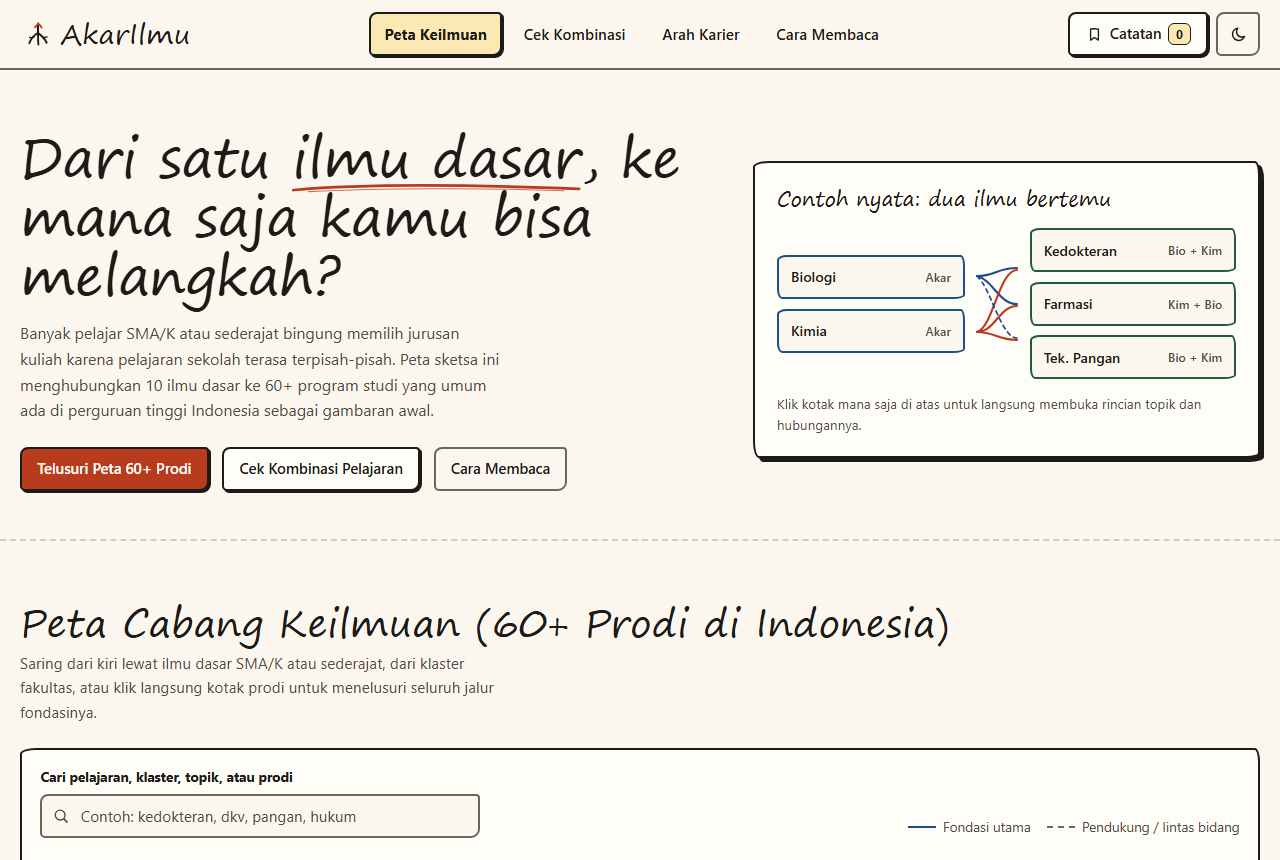
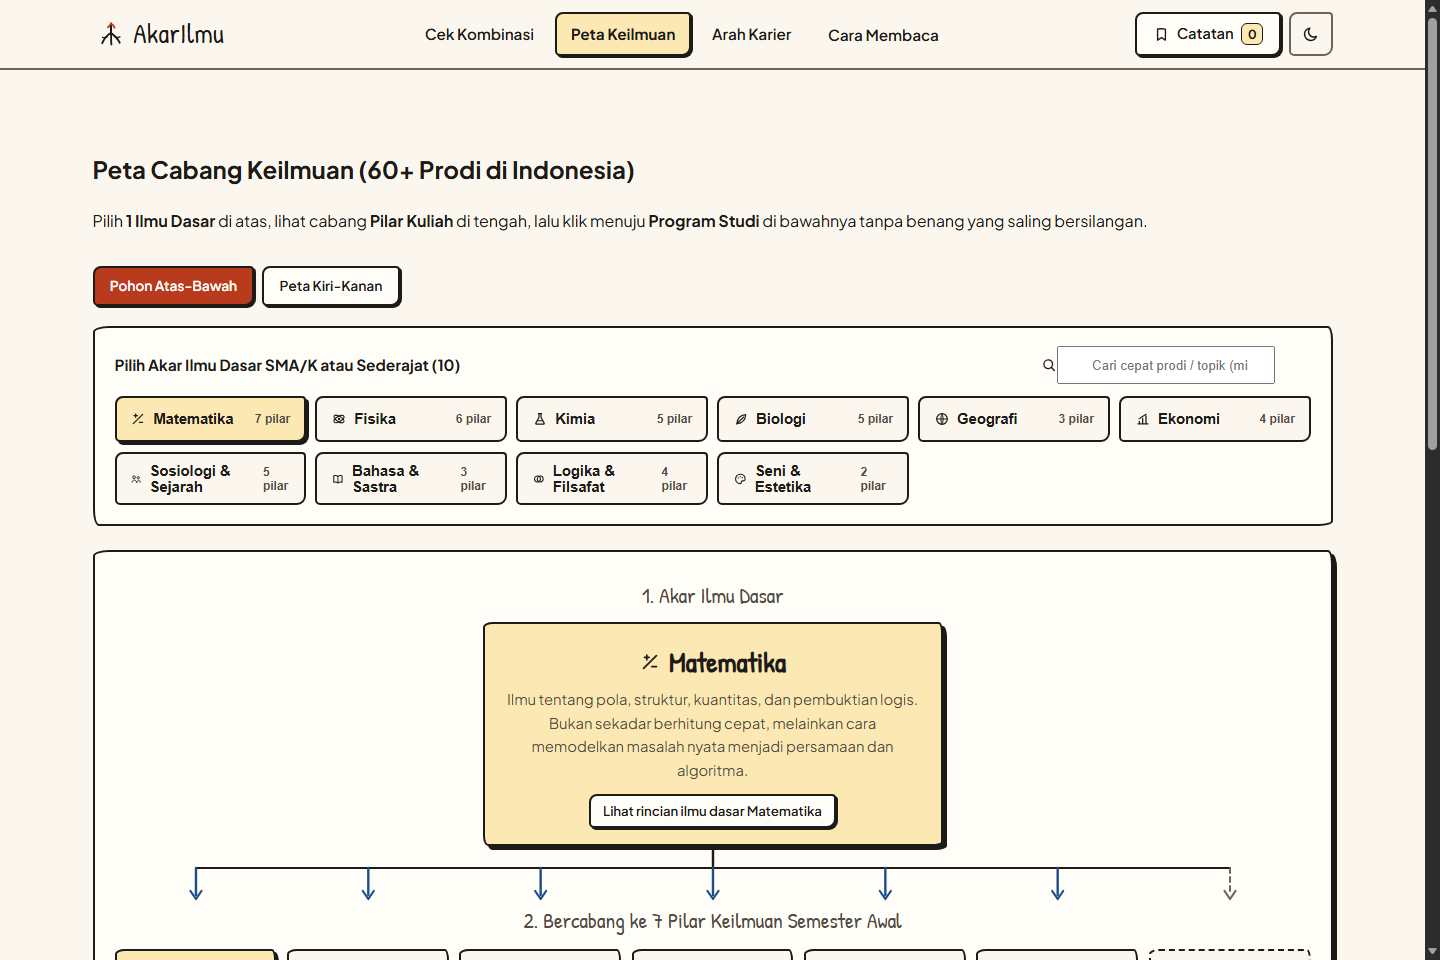
docs(readme): update README and screenshot for Cek Kombinasi landing, vertical tree map, and landscape popup

diff --git a/README.md b/README.md
@@ -10,15 +10,15 @@ Peta referensi keilmuan interaktif bergaya buku sketsa untuk pelajar SMA/K atau 
 
 ## Pratinjau Tampilan
 
-### 1. Peta Keilmuan (10 Ilmu Dasar -> 16 Pilar -> 60+ Prodi di Indonesia)
-
-![Halaman Peta Keilmuan AkarIlmu](docs/screenshots/peta-keilmuan.png)
-
-### 2. Cek Kombinasi Pelajaran (Persimpangan 1 sampai 3 Ilmu Dasar)
+### 1. Cek Kombinasi Pelajaran (Halaman Utama: Persimpangan 1 sampai 3 Ilmu Dasar)
 
 ![Halaman Cek Kombinasi AkarIlmu](docs/screenshots/cek-kombinasi.png)
 
-### 3. Arah Karier & Profesi Kerja (Telusur Balik dari Profesi ke Prodi)
+### 2. Peta Keilmuan (Mode Pohon Atas-Bawah & Peta Kiri-Kanan: 10 Ilmu Dasar -> 16 Pilar -> 60+ Prodi)
+
+![Halaman Peta Keilmuan AkarIlmu](docs/screenshots/peta-keilmuan.png)
+
+### 3. Arah Karier & Profesi Kerja (Telusur Balik dari 24 Jalur Profesi ke Prodi)
 
 ![Halaman Arah Karier AkarIlmu](docs/screenshots/arah-karier.png)
 
@@ -26,12 +26,14 @@ Peta referensi keilmuan interaktif bergaya buku sketsa untuk pelajar SMA/K atau 
 
 ## Fitur Utama
 
-- **Peta Cabang Keilmuan (`#peta`)**: Menelusuri hubungan 10 ilmu dasar (Matematika, Fisika, Kimia, Biologi, Geografi, Ekonomi, Sosiologi & Sejarah, Bahasa & Sastra, Logika & Filsafat, Seni & Estetika) ke 16 pilar kuliah dan 69 program studi lintas 9 klaster fakultas di Indonesia.
-- **Cek Persimpangan Ilmu (`#kombinasi`)**: Memilih 1 sampai 3 pelajaran favorit sekaligus untuk melihat jurusan apa saja yang mempertemukannya (misalnya Biologi + Kimia, Fisika + Matematika, atau Bahasa + Matematika).
-- **Arah Karier (`#karier`)**: Memetakan 24 jalur karier lintas 8 sektor kerja beserta aktivitas harian, prodi jalur utama maupun lintas prodi, ilmu dasar yang perlu disiapkan, dan catatan realitas lapangan (seperti syarat pendidikan profesi atau portofolio).
-- **Rincian Prodi, Rujukan PTN/PTS & Kalkulator Keketatan**: Setiap program studi dilengkapi topik inti, contoh PTN dan PTS rujukan di Indonesia, tautan ke portal resmi `snpmb.id`, serta kalkulator rasio keketatan (Daya Tampung dibanding Jumlah Peminat).
-- **Catatan Belajar Lokal**: Menandai status bidang (`Tertarik`, `Sedang dipelajari`, `Sudah paham dasar`) yang tersimpan langsung di `localStorage` tanpa perlu akun.
-- **Mode Terang & Gelap + Responsif Ponsel**: Tema kertas sketsa krem dan mode gelap *Midnight Sketchbook*, dilengkapi tab 3 lapis, filter lipat, dan bilah navigasi bawah khusus layar smartphone.
+- **Cek Persimpangan Ilmu (`#kombinasi` · Halaman Utama)**: Pengunjung dapat langsung memilih 1 sampai 3 pelajaran favorit SMA/K atau sederajat untuk melihat program studi apa saja yang mempertemukannya (misalnya `Biologi + Kimia`, `Fisika + Matematika`, `Matematika + Ekonomi`, atau `Bahasa + Matematika`) lengkap dengan alasan keilmuannya.
+- **Peta Cabang Keilmuan 2 Mode (`#peta`)**:
+  - **Mode `Pohon Atas-Bawah`**: Menelusuri 1 akar ilmu dasar di atas, bercabang turun ke deretan pilar kuliah semester awal di tengah, lalu turun ke gugus program studi di bawahnya tanpa garis yang saling bersilangan.
+  - **Mode `Peta Kiri-Kanan`**: Bagan 3 kolom menyeluruh untuk melihat hubungan 10 ilmu dasar, 16 pilar keilmuan, dan 69 program studi lintas 9 rumpun keilmuan (termasuk rumpun Ekonomi & Bisnis).
+- **Arah Karier (`#karier`)**: Memetakan 24 jalur karier lintas 8 sektor kerja beserta aktivitas harian, prodi jalur utama maupun lintas bidang, ilmu dasar yang perlu disiapkan, dan catatan realitas lapangan.
+- **Pop-up Rincian Landscape, Rujukan PTN/PTS & Kalkulator Keketatan**: Klik kartu program studi mana saja untuk membuka pop-up kartu *landscape* 2 kolom di tengah layar (otomatis menyesuaikan menjadi 1 kolom di layar ponsel) yang memuat topik inti kuliah, contoh PTN dan PTS rujukan di Indonesia, tautan ke `snpmb.id`, serta kalkulator simulasi rasio keketatan kursi (Daya Tampung dibanding Jumlah Peminat).
+- **Catatan Belajar Lokal**: Menandai status bidang (`Tertarik`, `Sedang dipelajari`, `Sudah paham dasar`) yang tersimpan langsung di `localStorage` browser tanpa perlu akun.
+- **Mode Terang & Gelap + Responsif Ponsel**: Tema kertas sketsa krem (*Warm Sketchbook*) dan mode gelap (*Midnight Sketchbook*), dilengkapi bilah navigasi bawah khusus layar ponsel.
 - **Formulir Masukan & Apresiasi**: Pop-up pengiriman koreksi data atau pesan semangat melalui endpoint `/api/feedback`.
 
 ---
@@ -40,7 +42,7 @@ Peta referensi keilmuan interaktif bergaya buku sketsa untuk pelajar SMA/K atau 
 
 - React 19 + TypeScript + Vite 6
 - CSS custom design tokens (tema sketsa terang & gelap, tanpa framework CSS berat)
-- Ikon dan garis kurva penghubung SVG kustom
+- Ikon dan garis percabangan pohon SVG kustom dengan pengukuran koordinat DOM presisi
 - Vercel Serverless Function (`api/feedback.js`) + `@vercel/functions`
 
 ---
